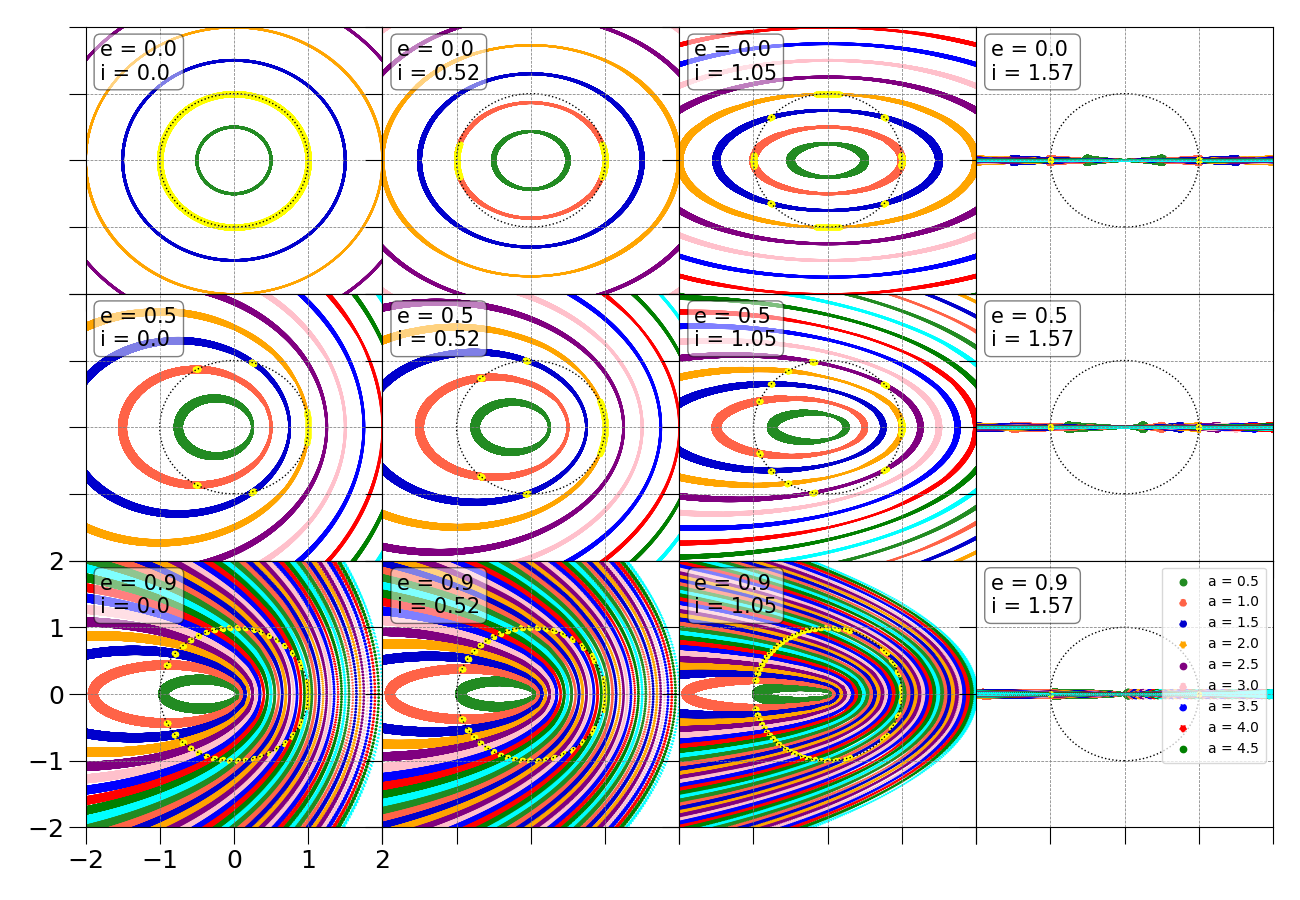
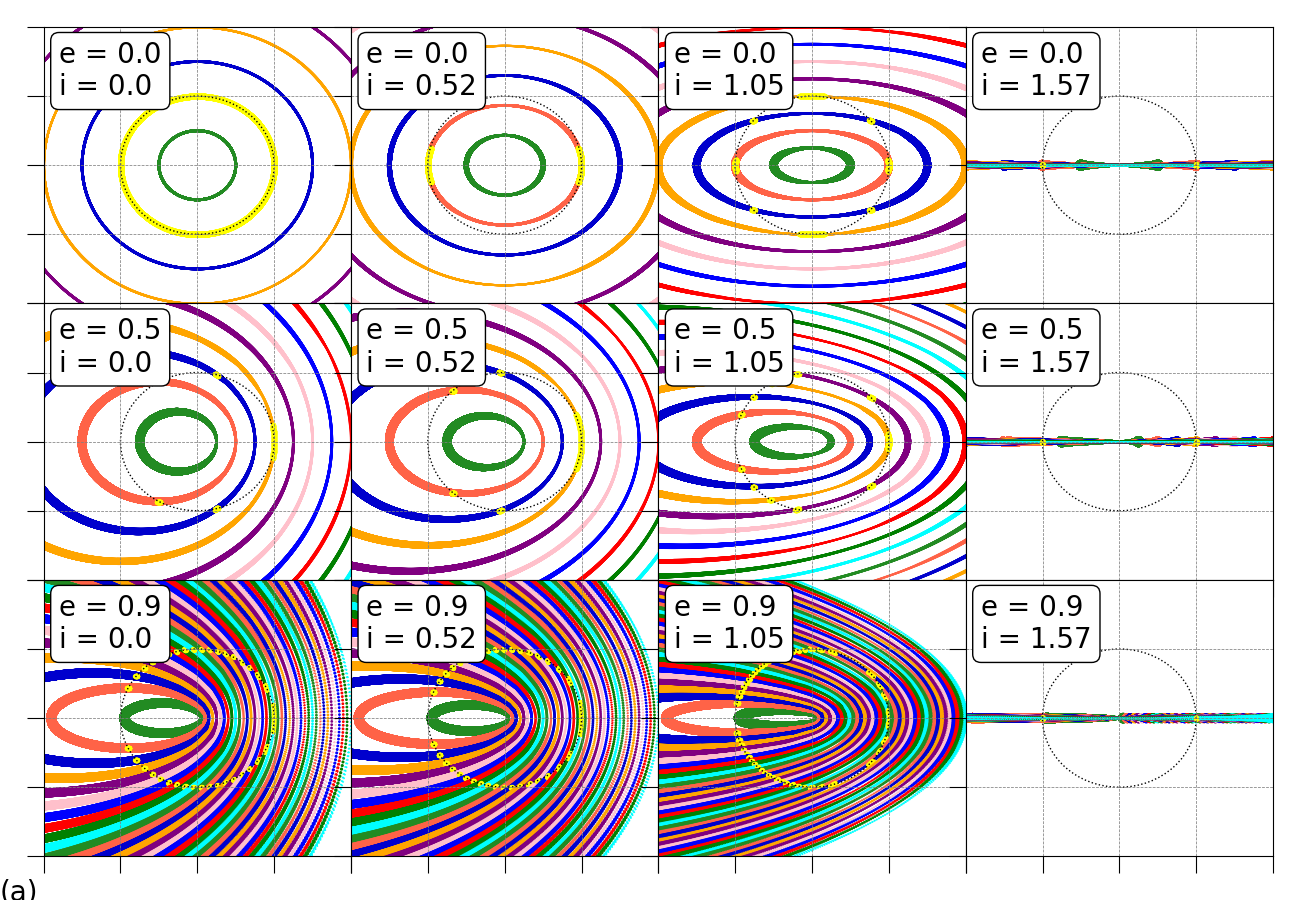
- Added inclines for 100 omega and inclination for the 12 eccentricity values - Cleaning up MultiProj plots for paper

diff --git a/Sep_plot.py b/Sep_plot.py
@@ -209,7 +209,7 @@ class Sep_plot(Sep_gen):
             list, totparam, listt = self.DataProj(w = w, start = start, end = end, step = step, specify = specify)
             fig, axs = plt.subplots(figsize = (9,9), gridspec_kw = {"hspace" : 0, "wspace" : 0}, sharex = True, sharey = True)
         
-        rect = dict(boxstyle = "round", alpha = 0.5, facecolor = "white")        
+        rect = dict(boxstyle = "round", alpha = 1, facecolor = "white")        
         colorlist = ["forestgreen", "tomato", "mediumblue", "orange", "purple",
                                     "pink", "blue", "red", "green", "cyan"]
         linelist = ["-", "--", "-.", ":"]
@@ -300,19 +300,37 @@ class Sep_plot(Sep_gen):
                 ax.set_yticks(limit)
                     
                 textstr = "\n".join((f'e = {param[0]}', f'i = {round(param[1],2)}'))
-                ax.text(0.05, 0.95, textstr, transform = ax.transAxes, fontsize = 15, verticalalignment = "top", bbox = rect)
+                ax.text(0.05, 0.95, textstr, transform = ax.transAxes, fontsize = 20, verticalalignment = "top", bbox = rect)
                 
-                if j == 0 or j == 4 or j == 8:
-                    if j == 8:
-                        ax.tick_params(axis = "both", labelbottom = True, labelleft = True)
-                    else:
-                        ax.tick_params(axis = "both", labelbottom = False, labelleft = False)
-                else:
-                    ax.tick_params(axis = "both", labelbottom = False, labelleft = False)
-                if j == 11:
-                    handles, labels = ax.get_legend_handles_labels()
-                    ax.legend(handles[0:9],labels[0:9], loc = "upper right", fontsize = 10, borderpad = 0.5, labelspacing = 0.50, handlelength = 2, framealpha = 0.75)
+                ax.tick_params(axis = "both", labelbottom = False, labelleft = False)
+                # if j == 0 or j == 4 or j == 8:
+                #     if j == 8:
+                #         ax.tick_params(axis = "both", labelbottom = False, labelleft = False)
+                #     else:
+                #         ax.tick_params(axis = "both", labelbottom = False, labelleft = False)
+                # else:
+                #     ax.tick_params(axis = "both", labelbottom = False, labelleft = False)
+                # if j == 11:
+                    # handles, labels = ax.get_legend_handles_labels()
+                    # ax.legend(handles[0:9],labels[0:9], loc = "upper right", fontsize = 10, borderpad = 0.5, labelspacing = 0.50, handlelength = 2, framealpha = 0.75)
                 # print(ax.xaxis.get_ticklocs(minor = False))
+            fig.tight_layout()
+            if w == 0:
+                value = "0"
+                text_string = "(a)"
+            elif w == (np.pi)/6:
+                value = "pi_6"
+                text_string = "(b)"
+            elif w == (np.pi)/3:
+                value = "pi_3"
+                text_string = "(c)"
+            elif w == (np.pi)/2:
+                value = "pi_2"
+                text_string = "(d)"
+            else:
+                return("Warning: Input correct version of pi (idk just do it right man).")
+                
+            plt.figtext(0.05, 0.05, text_string, fontsize = 20)
         else:
             iterlist = list[0]
             param = totparam[0]
@@ -370,21 +388,20 @@ class Sep_plot(Sep_gen):
             axs.text(0.05, 0.98, textstr, transform = axs.transAxes, fontsize = 20, verticalalignment = "top", bbox = rect)
             handles, labels = axs.get_legend_handles_labels()
             axs.legend(handles[0:9],labels[0:9], loc = "upper right", fontsize = 15, borderpad = 0.5, labelspacing = 0.50, handlelength = 2, framealpha = 0.75)
-        fig.tight_layout()
+            fig.tight_layout()
         
         # Saves to Figure Folder
         if len(specify) == 0:
             try:
-                plt.savefig(f"/College_Projects/Microlensing Separation/Figures/MultiProj_omega_0.png")
+                plt.savefig(f"/College_Projects/Microlensing Separation/Figures/MultiProj_omega_{value}.png")
             except OSError:
-                plt.savefig(f'C:/Users/victo/College_Projects/Microlensing Separation/Figures/MultiProj_omega_0.png')
+                plt.savefig(f'C:/Users/victo/College_Projects/Microlensing Separation/Figures/MultiProj_omega_{value}.png')
         else:
             try:
                 plt.savefig(f"/College_Projects/Microlensing Separation/Figures/MultiProj_omega_{omega}_specified.png")
             except OSError:
                 plt.savefig(f"C:/Users/victo/College_Projects/Microlensing Separation/Figures/MultiProj_omega_{omega}_specified.png")
             
-        
         return rlist
 
     def MultiPlotHist(self, w = 0, step = 0.002, end = 10, which = "Log", specify = []):
@@ -402,7 +419,7 @@ class Sep_plot(Sep_gen):
         
         # Data
         rlist, param = self.DataHist(w = w, step = step, end = end, which = which, specify = specify) 
-        rect = dict(boxstyle = "round", alpha = 0.5, facecolor = "white")
+        rect = dict(boxstyle = "round", alpha = 1, facecolor = "white")
         
         omega = round(w)
         # Initialize plot
@@ -496,7 +513,7 @@ class Sep_plot(Sep_gen):
                 ax.set_xscale("log")
                 
                 textstr = "\n".join((f'e = {iterparam[0]}', f'i = {round(iterparam[1],2)}'))
-                ax.text(0.05, 0.95, textstr, transform = ax.transAxes, fontsize = 15, verticalalignment = "top", bbox = rect)
+                ax.text(0.05, 0.95, textstr, transform = ax.transAxes, fontsize = 20, verticalalignment = "top", bbox = rect)
                 # ax.text(3e0, 8.5, f"$e = {iterparam[0]}$") 
                 # ax.text(3e0, 7.5, f"$i = {round(iterparam[1],2)}$")
                 ax.grid(True,color = "grey", linestyle="-", linewidth="0.25", axis = "x", which = "both", alpha = 0.75)
@@ -813,14 +830,14 @@ class Sep_plot(Sep_gen):
             ax.set_xscale("log")
             
             # Decoration
-            rect = dict(boxstyle = "round", alpha = 0.5, facecolor = "white")
+            rect = dict(boxstyle = "round", alpha = 1, facecolor = "white")
             if not inclination:
                 textstr = "\n".join((f'e = {iter_param[0]}', f'i = {round(iter_param[1],2)}'))
                 ax.vlines(1/(1-iter_param[0]), 0, 1, transform = ax.get_xaxis_transform(), colors = 'black', alpha = 0.75, label = r"Expected Peak $e$")
             else:
                 textstr = f"e = {round(iter_param,3)}"
                 ax.vlines(1/(1-iter_param), 0, 1, transform = ax.get_xaxis_transform(), colors = 'black', alpha = 0.75, label = r"Expected Peak $e$")
-            ax.text(0.05, 0.95, textstr, transform = ax.transAxes, fontsize = 15, verticalalignment = "top", bbox = rect)
+            ax.text(0.05, 0.95, textstr, transform = ax.transAxes, fontsize = 20, verticalalignment = "top", bbox = rect)
             ax.grid(True,color = "grey", linestyle="--", linewidth="0.25", axis = "x", which = "both")
             # Lines and organizing labels to be cleaner
             
@@ -984,7 +1001,7 @@ class Sep_plot(Sep_gen):
             # Save to CSV
         df_unity = pd.DataFrame(unity_data)
         if unity:
-            if circ == False:
+            if not circ and not inclination:
                 file_name = f'/home/karkour.2/Results/UnityHist_eccent_incline_{self.numestep}_0002_{which}.csv'
             elif inclination:
                 file_name = f'/home/karkour.2/Results/UnityHist_inclines_{self.inum}_{which}.csv'
@@ -1445,8 +1462,8 @@ class Sep_plot(Sep_gen):
         print(f"Stats for  Circular distribution and alpha = {alpha_step}: ")
         print(' Median: ', median_circ, " 68% Intervals: ", percent_68_circ, " 95% Intervals: ", percent_95_circ)
         
-        rect = dict(boxstyle = "round", alpha = 0.5, facecolor = "white")
-        textstr = "\n".join((f'Median: {median}', f'68% Intervals: {percent_68}', f'95% Intervals: {percent_95}'))
+        # rect = dict(boxstyle = "round", alpha = 1, facecolor = "white")
+        # textstr = "\n".join((f'Median: {median}', f'68% Intervals: {percent_68}', f'95% Intervals: {percent_95}'))
         # ax.text(0.65, 0.75, textstr, transform = ax.transAxes, fontsize = 10, verticalalignment = "top", bbox = rect)
         plt.tight_layout()
         try:
@@ -1812,16 +1829,16 @@ if __name__ == "__main__":
     # FOR REAL LINEAR, alpha = 0, FOR REAL LOG, alpha = -1, FOR REAL POWER, alpha = 1
     which = "Log"
     alpha = -1 # For test = True, this becomes the comparison to which
-    inclination = False # False = all three marginalizations
+    inclination = False # False = all three marginalizations for unityhistload
     circ = False
     gamma_bool = False # Generates gamma list
     test = True
     unity = False
     dist = "" # When test = False, this makes only the dist of certain alpha param
     specify = []
-    specify = [0.9, np.pi/3]
+    # specify = [0.9, np.pi/3]
     tothist = Sep_plot(numestep=numestep, numdiv=numdiv, wnum = wnum)
-    # rlist = tothist.MultiPlotProj(w = 0, start = 0.5, end = 20, step = 0.5, specify = specify)
+    rlist = tothist.MultiPlotProj(w = 0, start = 0.5, end = 20, step = 0.5, specify = specify)
     # specify = [eccentricity, inclination]
     # rtemp = tothist.MultiPlotHist(w = 0, step = 0.002, end = 20, which = which , specify = specify)
     
@@ -1831,7 +1848,7 @@ if __name__ == "__main__":
     
     # UnityPlotHistGen includes Inclination and Eccentricity Marginalization!
     # folder = tothist.UnityPlotHistGen(which = which, unity = unity, circ = circ, gamma_bool = gamma_bool, inclination = inclination)
-    load = tothist.UnityPlotHistLoad(which = which, alpha_step = alpha, dist = dist, circ = circ, test = test)
+    # load = tothist.UnityPlotHistLoad(which = which, alpha_step = alpha, dist = dist, circ = circ, test = test)
     # cdf = tothist.statistics(which = which, alpha_step = alpha)
     
     # Note: stepalpha function can also combine uniform and circular distributions!
